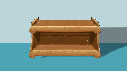
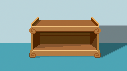
reroll

diff --git a/game.js b/game.js
@@ -156,6 +156,47 @@ var upgradeScreen = function() {
     ctx.fillRect(0, 0, canvas.width, canvas.height);
     ctx.drawImage(assets.shopBackground, 0, 0, canvas.width, canvas.height);
 
+    if(!tutorial) {
+        if(upgradeScreen.potionAnim < 39 || upgradeScreen.canReroll) {
+            upgradeScreen.potionAnim ++;
+        }
+        var potionPos = [
+            new Vect(h100*100, h100 * 45), 
+            new Vect(h100 * 20, h100 * 20)
+        ];
+        //shadow??
+        ctx.fillStyle = "rgba(48, 48, 48, 0.1)";
+        ctx.fillRect(potionPos[0].x + potionPos[1].x * 0.2, potionPos[0].y + potionPos[1].y, potionPos[1].x * 0.6, h100 * 2);
+
+        var frame = Math.floor(upgradeScreen.potionAnim / 5) % 8;
+        var hovered = upgradeScreen.canReroll && IsPointInAABB(mouse, potionPos[0], potionPos[1]);
+        if(hovered) {
+
+            ctx.fillStyle = "white";
+            ctx.strokeStyle = "black";
+            ctx.lineWidth = h100;
+            ctx.font = 5*h100 + "px pixelFont";
+            ctx.textAlign = "center";
+            ctx.textBaseline = "hanging";
+            ctx.strokeText("Reroll", potionPos[0].x + potionPos[1].x/2, potionPos[0].y + potionPos[1].y*1.05);
+            ctx.fillText  ("Reroll", potionPos[0].x + potionPos[1].x/2, potionPos[0].y + potionPos[1].y*1.05);
+            ctx.filter = "brightness(120%)";
+        }
+        ctx.drawImage(
+            assets[upgradeScreen.canReroll? "potion": "potionDrain"],
+            Player.spriteSize * frame + 0.05, 0, Player.spriteSize - 0.1, Player.spriteSize,
+            potionPos[0].x,potionPos[0].y,potionPos[1].x,potionPos[1].y
+        );
+        ctx.filter = "none";
+        if(mouse.justReleased && hovered) {
+            soundEffects.bubble.play();
+            //reroll
+            upgradeScreen.potionAnim = 0;
+            upgradeScreen.canReroll = false;
+            setupUpgrade(false, true);
+        }
+    }
+
 
 
     //draw upgardesed
@@ -278,6 +319,7 @@ var upgradeScreen = function() {
     
     //money
     ctx.strokeStyle = "black";
+    ctx.lineWidth = h100;
     ctx.fillStyle = playerStuff.roundsLeft === 0 && stateSwitchTimer % 20 < 10? "rgb(180, 0, 0)": "white";
     ctx.font = 8*h100 + "px pixelFont";
     ctx.textAlign = "left";
@@ -326,10 +368,13 @@ var upgradeScreen = function() {
         ctx.fill();
         if(upgradeScreen.transitionTimer > 30) {
             upgradeScreen.transitionTimer = 0;
+            upgradeScreen.canReroll = true;
             switchState("gamble");
         }
     }
 };
+upgradeScreen.canReroll = true;
+upgradeScreen.potionAnim = 0;
 upgradeScreen.payTaxes = 0;
 upgradeScreen.taxButton = new Button(0, 0, h100 * 50, h100 * 10, "PAY RENT!", "red");
 upgradeScreen.transitionTimer = 0;

diff --git a/main.js b/main.js
@@ -12,17 +12,19 @@ var setupLevel = function() {
     }
     roundEnemies = [];
 };
-var setupUpgrade = function(depressing) {
+var setupUpgrade = function(depressing, isReroll) {
+    prevUpgradeChoices = upgradeChoices.slice();
     upgradeChoices = [];
     //Choose three different upgrades from currPossibleUpgrades as the upgrades.
     var tempThing = currPossibleUpgrades.slice();//make tempThing so that we don't actually delete stuff fromcurrpossibleupgrades because you only do that hwen they actually buy it
     for(var i = 0; i < 3; i ++) {
-        while(true) {
+        var lim = 50;
+        while(--lim >= 0) {
             if(tempThing.length <= 0) {
                 break;
             }
-            var id = depressing? 0: Math.floor(Math.random() * tempThing.length);
-            if(!tempThing[id].criteria || tempThing[id].criteria()) {
+            var id = depressing? 0: limit < tempThing.length? limit: Math.floor(Math.random() * tempThing.length);
+            if((!tempThing[id].criteria || tempThing[id].criteria()) && (!isReroll || !prevUpgradeChoices.includes(tempThing[id]))) {
                 upgradeChoices.push(tempThing[id]);
                 tempThing.splice(id, 1);
                 break;

diff --git a/soundeffects.js b/soundeffects.js
@@ -630,7 +630,9 @@ var otherSounds = {
     coinBounce: "coin-bounce.mp3",
     coinPickup: "coin-pickup.mp3",
 
-    buy: "buy.mp3"
+    buy: "buy.mp3",
+
+    bubble: "bubble.mp3",//for potion
 };
 var music = {
     playing: "song.mp3",

diff --git a/init.js b/init.js
@@ -106,6 +106,8 @@ var assets = {
 
     tutorialNpc: "tutorial-npc.png",
 
+    potion: "potion.png",
+    potionDrain: "potion-drain.png"
 };
 for(var i in assets) {
     let bob = new Image();